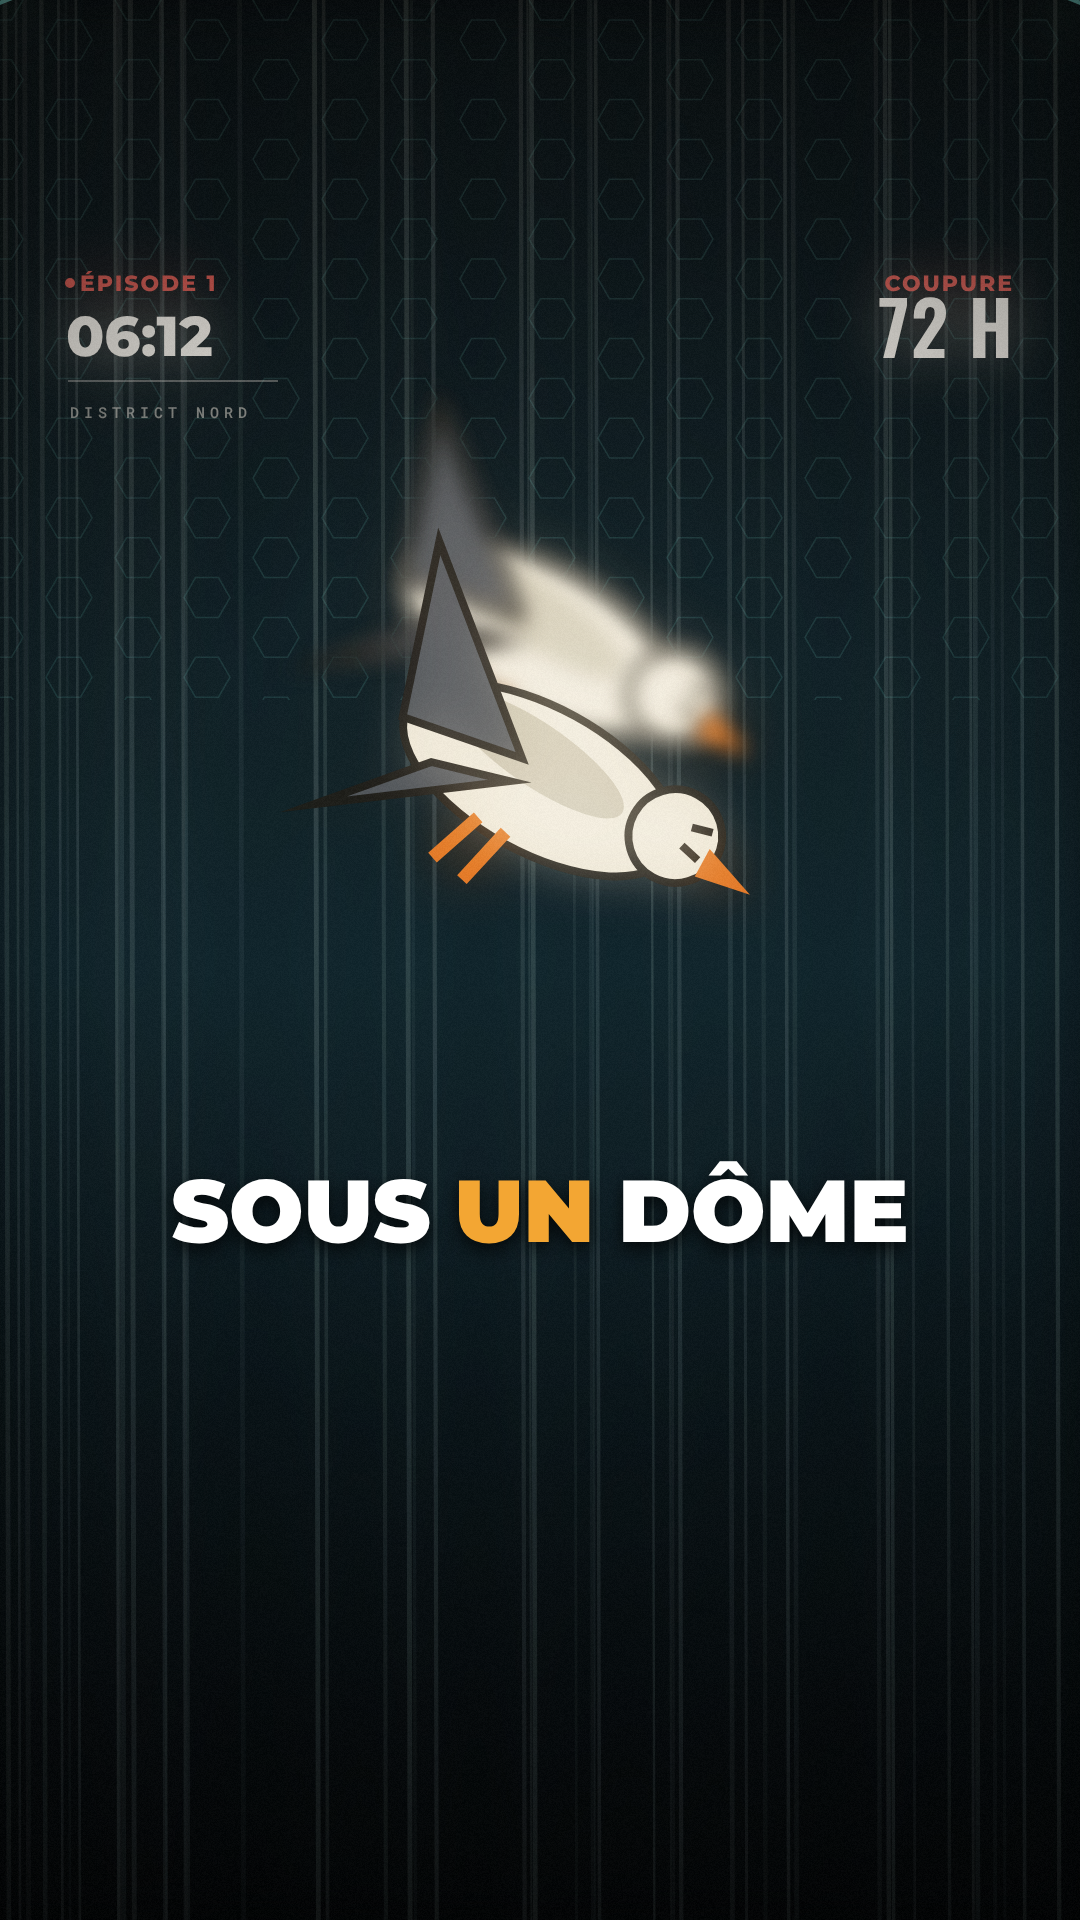
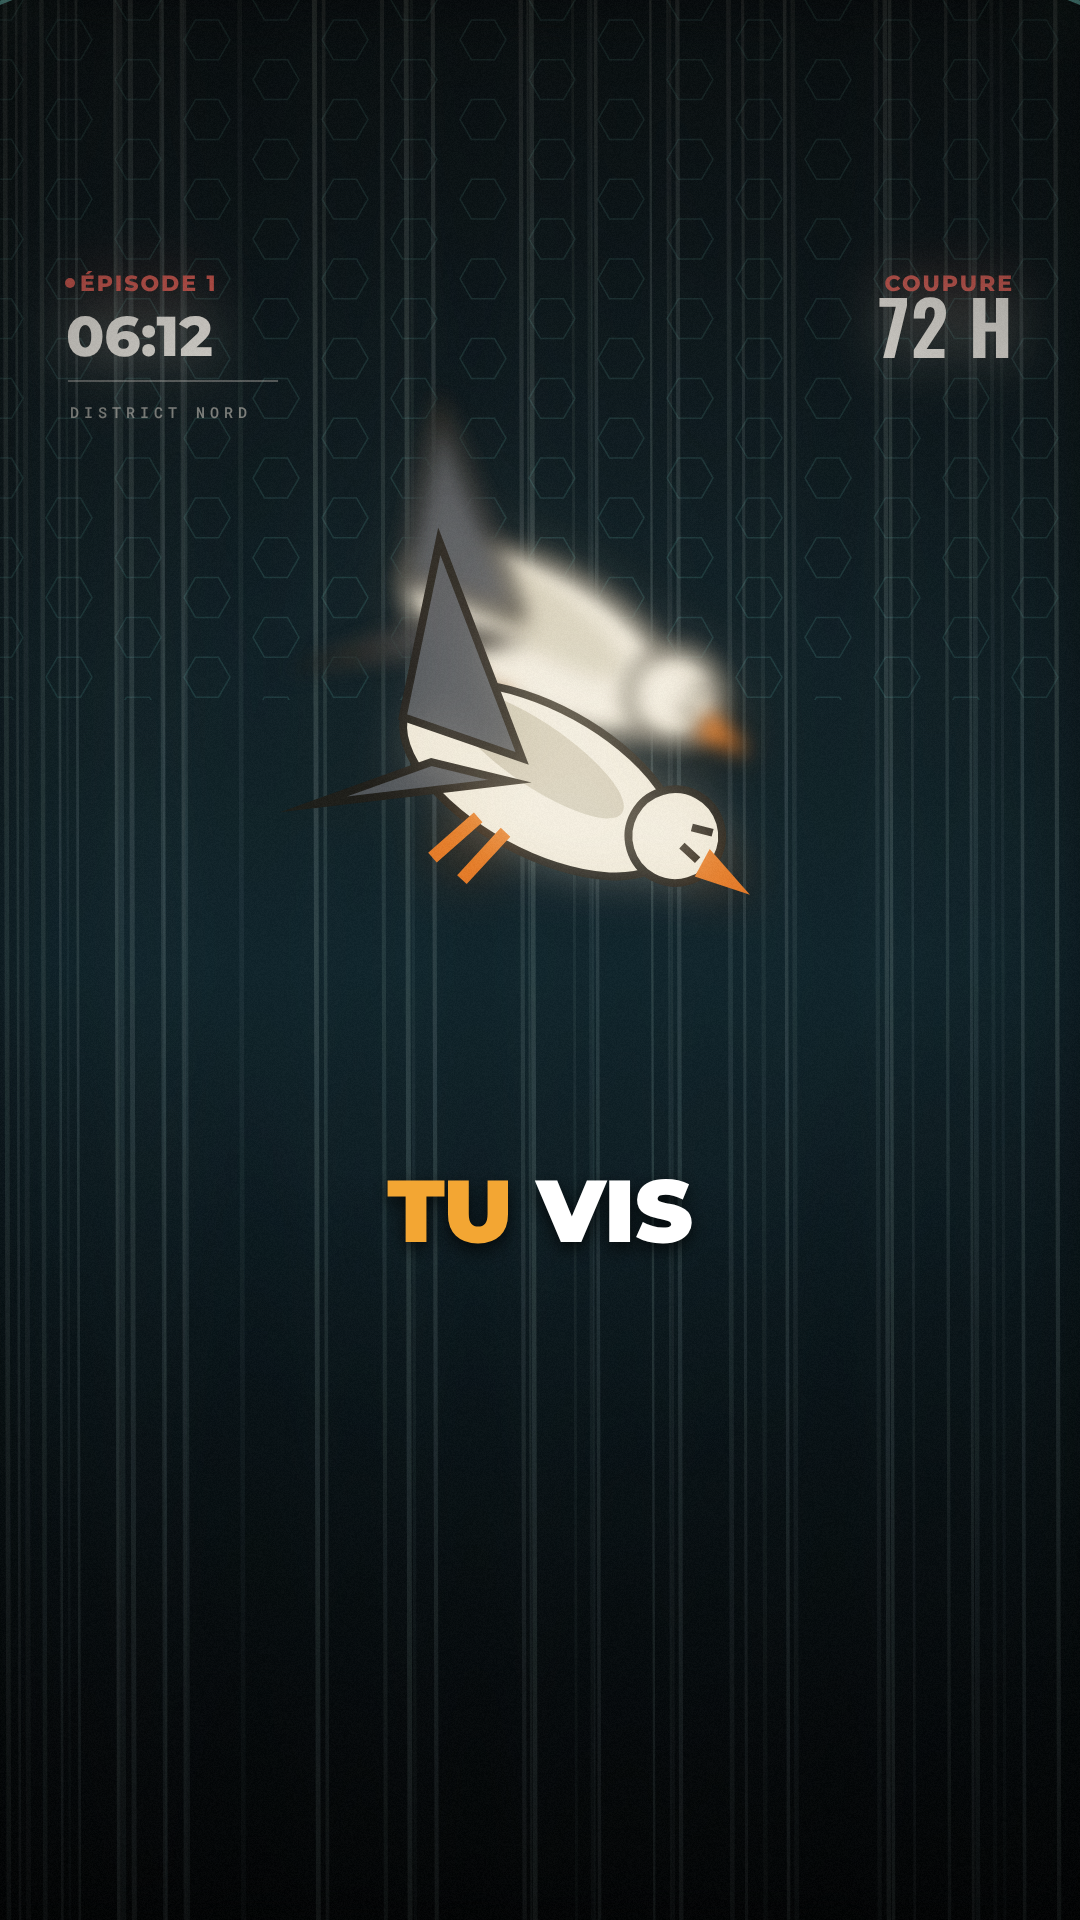
couronne-ep01 : plan 2 — sous-titres dans l'ordre de la voix (TU VIS, SOUS UN DÔME, MAGNÉTIQUE)
Claude-Session: https://claude.ai/code/session_0151hKPePi5KPXjL7mUCuxno

Changed region(s): [[0.1528, 0.5938, 0.8556, 0.6562]]

diff --git a/productions/couronne-ep01/rendu_v3/scenes.js b/productions/couronne-ep01/rendu_v3/scenes.js
@@ -786,7 +786,7 @@ S.p02i_sol_vivant = g => {                                // image 3 v13
   actor(g, 290, 2650, 1.8, { ...HERO, look: 0.0, arms: [[-1, 10], [1, 10]] }, { rim: TEAL, rimAng: -1.57, rimW: 7, key: "#ffd9a0", shadow: false });
   g.fillStyle = "rgba(0,0,0,0.4)"; g.beginPath(); g.ellipse(880, 1852, 90, 12, 0, 0, 7); g.fill();
   pigeon(g, 560, 1860, 2.0, 1.45, 0);
-  hud(g); finish(g, { bloom: 0.35, grade: ["#06202a", "#ffd9a0", 0.16] }); caption(g, ["SOUS", "UN", "DÔME"], 1);
+  hud(g); finish(g, { bloom: 0.35, grade: ["#06202a", "#ffd9a0", 0.16] }); caption(g, ["MAGNÉTIQUE."], 0);
 };
 // ---------- v17 : plan 2 — ouverture sur l'objet (feuille pliée qui tombe, gros plan, traînée de mouvement) ----------
 S.p02j_objet_debut = g => {
@@ -815,7 +815,7 @@ S.p02k_oiseau_debut = g => {                         // ouverture : oiseau énor
   for (let i = 0; i < 50; i++) { g.strokeStyle = rgba("#cfe9e6", 0.05 + rnd(i) * 0.1); g.lineWidth = 2 + rnd(i * 3) * 3; const x = rnd(i * 7) * W; g.beginPath(); g.moveTo(x, 0); g.lineTo(x + 4, H); g.stroke(); }
   pigeon(g, 540, 640, 2.6, 0.5, 10);
   pigeon(g, 540, 780, 2.6, 0.5, 0);
-  hud(g); finish(g, { bloom: 0.35, grade: ["#06202a", "#ffd9a0", 0.16] }); caption(g, ["SOUS", "UN", "DÔME"], 1);
+  hud(g); finish(g, { bloom: 0.35, grade: ["#06202a", "#ffd9a0", 0.16] }); caption(g, ["TU", "VIS"], 0);
 };
 window.SCENES = Object.fromEntries(Object.entries(S).filter(([k]) => !k.endsWith("_bg")));
 window.SCENES_ALL = S;
